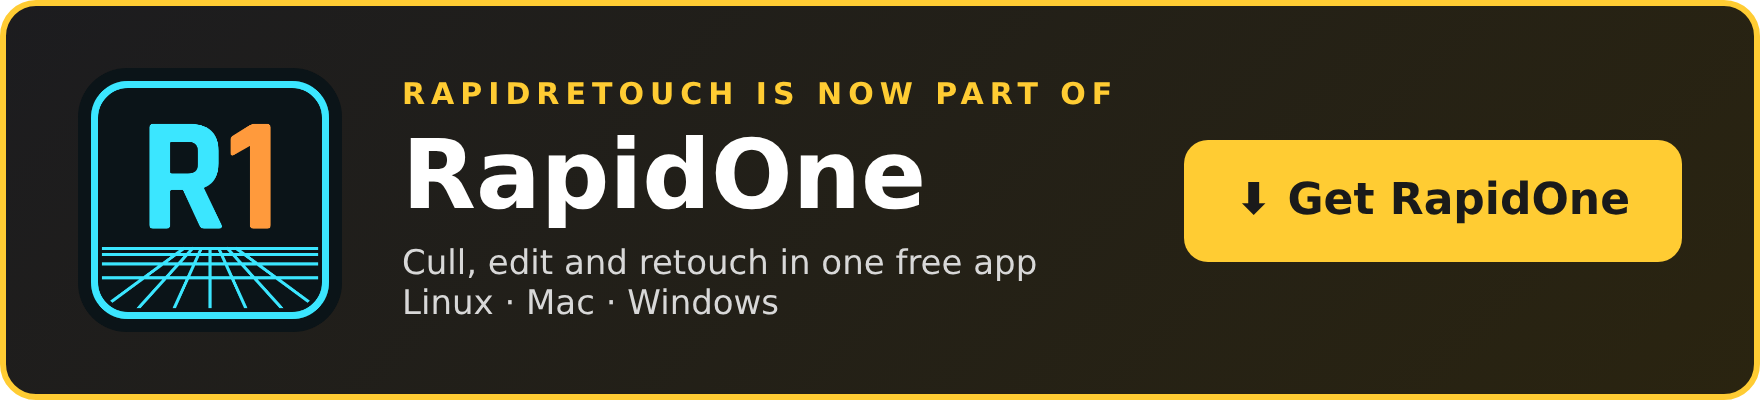
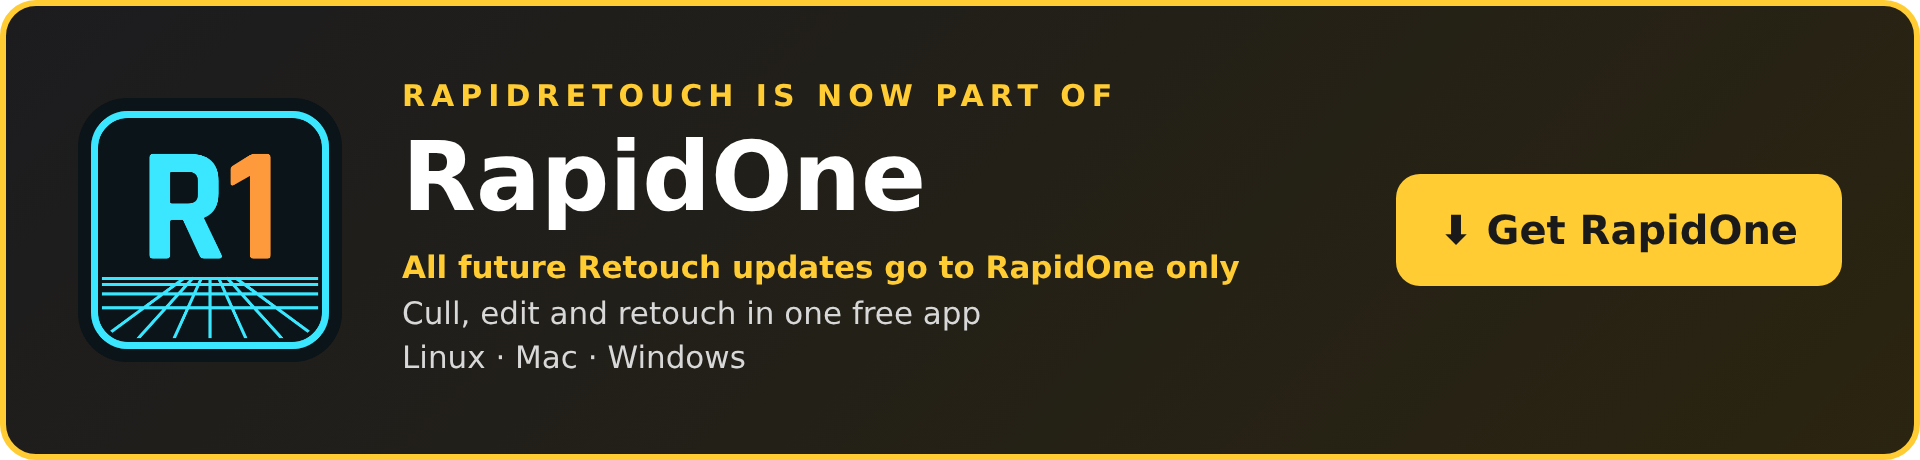
README: say all Retouch updates now go to RapidOne only
Claude-Session: https://claude.ai/code/session_01F7vMHDdMYk9m3ixd7wSLMh

diff --git a/README.md b/README.md
@@ -1,11 +1,13 @@
 # RapidRetouch
 
-<p align="center"><a href="https://github.com/crispin81/RapidOne"><img src="docs/rapidone-banner.png" width="880" alt="RapidRetouch is now part of RapidOne. Click to get RapidOne."></a></p>
+<p align="center"><a href="https://github.com/crispin81/RapidOne"><img src="docs/rapidone-banner.png" width="880" alt="RapidRetouch is now part of RapidOne. All future Retouch updates go to RapidOne only. Click to get RapidOne."></a></p>
 
 > [!IMPORTANT]
 > ## ⭐ RapidRetouch is now part of RapidOne
 >
-> **Everything in RapidRetouch is built into RapidOne's Retouch tab, alongside fast culling and a full RAW editor, free for Linux, Mac and Windows. New retouching features land in RapidOne first; this standalone version follows a few weeks behind.**
+> **Everything in RapidRetouch is built into RapidOne's Retouch tab, alongside fast culling and a full RAW editor, free for Linux, Mac and Windows.**
+>
+> **For the foreseeable future, all Retouch updates (new features and fixes) will go to RapidOne only. This standalone RapidRetouch will not be updated.**
 >
 > ### 👉 **[⬇ Get RapidOne (free)](https://github.com/crispin81/RapidOne)**
 
@@ -16,7 +18,7 @@ credits. Built for studio and outdoor portraits, from 24 MP up to 100 MP medium 
 Part of a family of apps by Chris Cork Photography, alongside RapidCulling and
 RapidTimelapse.
 
-> **Actively developed: expect frequent updates.**
+> **Development continues in [RapidOne](https://github.com/crispin81/RapidOne).**
 
 **New to RapidRetouch? Watch the tutorial:**
 
@@ -26,9 +28,9 @@ RapidTimelapse.
 <summary><strong>Recent Changes</strong></summary>
 
 > [!TIP]
-> **Want the newest retouching features first? [⬇ Get RapidOne](https://github.com/crispin81/RapidOne)**, which includes everything in RapidRetouch.
+> **All Retouch updates now go to RapidOne only. [⬇ Get RapidOne](https://github.com/crispin81/RapidOne)**, which includes everything in RapidRetouch.
 
-**[⬇ Download the latest standalone RapidRetouch](https://github.com/crispin81/RapidRetouch/releases/latest)**
+**[⬇ Download the last standalone RapidRetouch](https://github.com/crispin81/RapidRetouch/releases/latest)**
 
 - **2026-10-07 (v1.0.3):** JPEGs open the right way up, faces found in full-length and low-key shots, a Rotate 90° button, relight that follows each face when pasted or in a preset, true colours for iPhone and Adobe RGB JPEGs, and exports that keep the camera's information
 - **2026-10-05 (v1.0.2):** Remove tools move to the top bar, an eye on each slider to switch it off, instant Opacity sliders, faster patching, a histogram behind the tone curve, and Acne finds spots it missed
